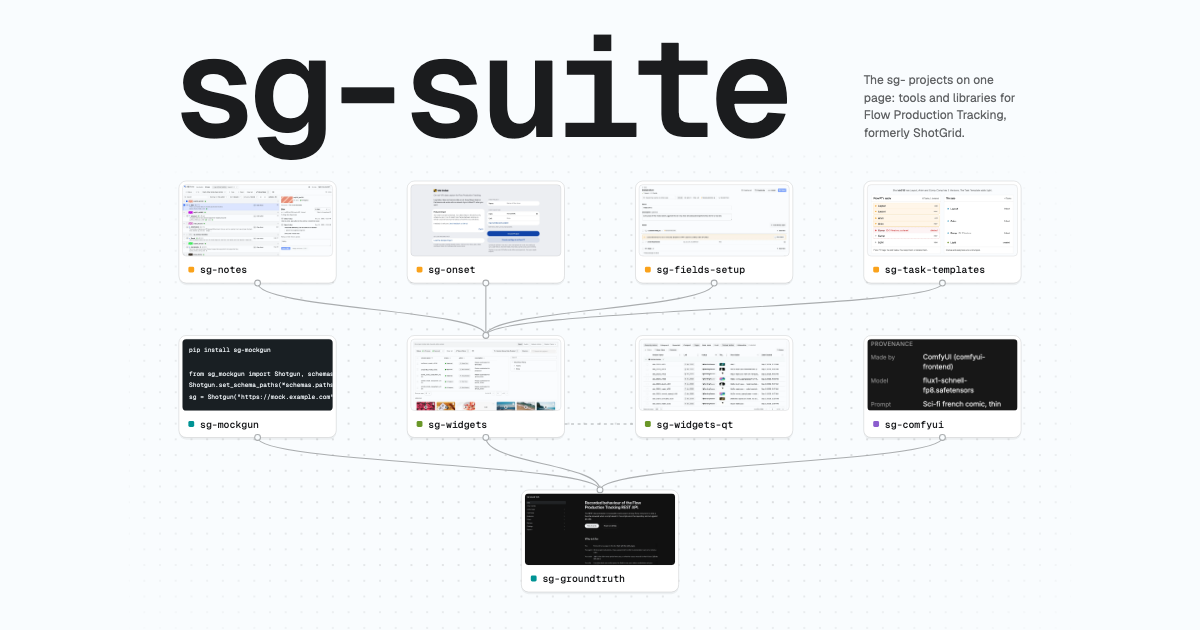
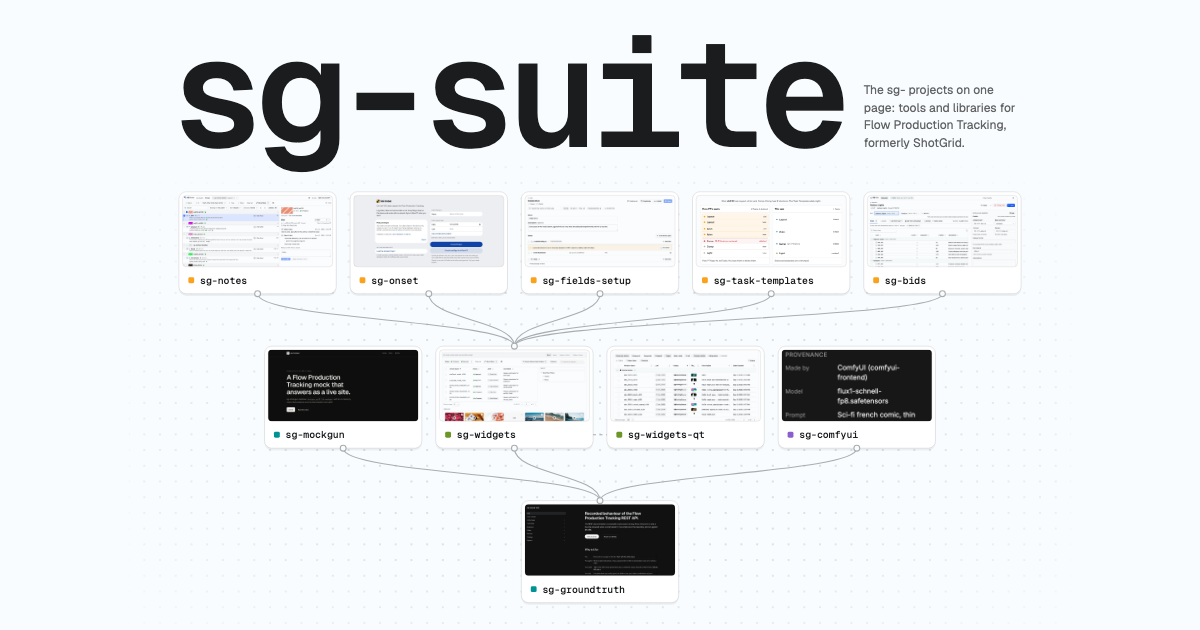
List sg-bids (#18)
Its entry, its relation to sg-widgets, its README row and its picture. The hero's top
layer holds five apps. The share image and the counts in the SEO copy follow.

diff --git a/src/lib/pure/projects.ts b/src/lib/pure/projects.ts
@@ -227,6 +227,23 @@ export const projects: Project[] = [
 		}
 	},
 	{
+		name: 'sg-bids',
+		line: 'VFX bid rounds: a request built from Shots and Assets, vendors answer through a link, the award is written to Flow PT.',
+		problem: 'Bid rounds run on spreadsheets and email. Vendors have no Flow PT account, their numbers are compared by hand, and the award is typed back in.',
+		fix: 'Build the request from Shots and Assets or a breakdown. Vendors answer through a link. Compare in one currency, award, and Flow PT is updated.',
+		repo: gh('sg-bids'),
+		site: 'https://sg-bids.vercel.app',
+		group: 'apps',
+		license: 'MIT',
+		image: {
+			src: '/screens/sg-bids.webp',
+			alt: 'A draft request: two bids of shots in one table, with its details and vendors beside it',
+			width: 1440,
+			height: 900,
+			from: 'site'
+		}
+	},
+	{
 		name: 'sg-comfyui',
 		line: 'ComfyUI nodes and a sidebar tab that publish a generation as a Version, find Versions and load them back.',
 		problem: 'On a big project, the right Version is hard to find from ComfyUI. What it makes leaves with no record of model, prompt or seed.',
@@ -266,7 +283,8 @@ export const relations: Relation[] = [
 	{ from: 'sg-notes', to: 'sg-widgets', kind: 'on' },
 	{ from: 'sg-onset', to: 'sg-widgets', kind: 'on' },
 	{ from: 'sg-fields-setup', to: 'sg-widgets', kind: 'on' },
-	{ from: 'sg-task-templates', to: 'sg-widgets', kind: 'on' }
+	{ from: 'sg-task-templates', to: 'sg-widgets', kind: 'on' },
+	{ from: 'sg-bids', to: 'sg-widgets', kind: 'on' }
 ];
 
 /** The groups in order, each with its projects in list order. */

diff --git a/src/lib/pure/seo.ts b/src/lib/pure/seo.ts
@@ -10,8 +10,8 @@ export const SITE = 'https://sg-suite.vercel.app';
 export const REPO = 'https://github.com/ksallee/sg-suite';
 const NAME = 'sg-suite';
 export const LINE = 'The sg- projects on one page: tools and libraries for Flow Production Tracking, formerly ShotGrid.';
-export const DESCRIPTION = `${LINE} The recorded REST API, a standalone mockgun, React, Svelte and Qt widgets, four web apps and ComfyUI nodes.`;
-const IMAGE_ALT = 'sg-suite: a node graph of the nine sg- projects, sg-groundtruth at the base.';
+export const DESCRIPTION = `${LINE} The recorded REST API, a standalone mockgun, React, Svelte and Qt widgets, five web apps and ComfyUI nodes.`;
+const IMAGE_ALT = 'sg-suite: a node graph of the ten sg- projects, sg-groundtruth at the base.';
 
 const esc = (s: string): string => s.replace(/&/g, '&amp;').replace(/"/g, '&quot;').replace(/</g, '&lt;').replace(/>/g, '&gt;');
 
@@ -87,7 +87,7 @@ export function llmsTxt(): string {
 		'',
 		`> ${LINE}`,
 		'',
-		'Nine open source projects. sg-groundtruth is the base: it records how the Flow Production Tracking REST API answers. sg-mockgun, sg-widgets and sg-comfyui build on it; sg-widgets-qt ports sg-widgets to Qt; the four apps build on sg-widgets.',
+		'Ten open source projects. sg-groundtruth is the base: it records how the Flow Production Tracking REST API answers. sg-mockgun, sg-widgets and sg-comfyui build on it; sg-widgets-qt ports sg-widgets to Qt; the five apps build on sg-widgets.',
 		''
 	];
 	for (const { group, projects: list } of grouped()) {

diff --git a/src/lib/pure/hero.test.ts b/src/lib/pure/hero.test.ts
@@ -8,7 +8,7 @@ const top = layout.nodes.filter((n) => n.layer === layout.layers - 1).sort((a, b
 describe('heroLayout', () => {
 	it('lays the hero out in its own box: three layers, the apps on top', () => {
 		expect(layout.layers).toBe(3);
-		expect(top.map((n) => n.name)).toEqual(['sg-notes', 'sg-onset', 'sg-fields-setup', 'sg-task-templates']);
+		expect(top.map((n) => n.name)).toEqual(['sg-notes', 'sg-onset', 'sg-fields-setup', 'sg-task-templates', 'sg-bids']);
 		for (const n of layout.nodes) {
 			expect(n.x - HERO.nodeW / 2).toBeGreaterThanOrEqual(0);
 			expect(n.x + HERO.nodeW / 2).toBeLessThanOrEqual(HERO.width);
@@ -19,14 +19,14 @@ describe('heroLayout', () => {
 describe('titleGrid', () => {
 	const g = titleGrid(layout);
 
-	it('spans the title from the first top node’s left edge to the third one’s right edge', () => {
+	it('spans the title from the first top node’s left edge to the right edge of the one before last', () => {
 		expect(g.left).toBeCloseTo(top[0].x - HERO.nodeW / 2);
-		expect(g.titleW).toBeCloseTo(top[2].x + HERO.nodeW / 2 - g.left);
+		expect(g.titleW).toBeCloseTo(top[top.length - 2].x + HERO.nodeW / 2 - g.left);
 	});
 
 	it('gives the line the last column, and keeps the grid symmetric', () => {
 		expect(g.lineW).toBe(HERO.nodeW);
-		expect(top[3].x + HERO.nodeW / 2 + g.left).toBeCloseTo(HERO.width);
+		expect(top[top.length - 1].x + HERO.nodeW / 2 + g.left).toBeCloseTo(HERO.width);
 	});
 });
 

diff --git a/src/lib/components/Hero.svelte b/src/lib/components/Hero.svelte
@@ -1,6 +1,6 @@
 <script lang="ts">
 	// The top of the page. `sg-suite` in Geist Mono, set on the graph's grid: it spans the top
-	// layer's first three columns, and the line sits in the fourth, on its baseline. Then the
+	// layer's first columns, and the line sits in the last, on its baseline. Then the
 	// graph (a tree on a phone) and the legend.
 	import type { Project } from '$lib/pure/projects';
 	import { grouped } from '$lib/pure/projects';

diff --git a/src/lib/pure/timing.test.ts b/src/lib/pure/timing.test.ts
@@ -104,7 +104,7 @@ describe('nodeDelays', () => {
 		const top = nodes.filter((n) => n.layer === 2).sort((a, b) => a.slot - b.slot);
 		const [end, mid] = [d.get(top[0].name)!, d.get(top[1].name)!];
 		expect(mid).toBeLessThan(end);
-		expect(d.get(top[0].name)).toBe(d.get(top[3].name));
+		expect(d.get(top[0].name)).toBe(d.get(top[top.length - 1].name));
 	});
 });
 

diff --git a/src/lib/pure/cards.test.ts b/src/lib/pure/cards.test.ts
@@ -19,7 +19,8 @@ describe('downstream', () => {
 			'sg-notes',
 			'sg-onset',
 			'sg-fields-setup',
-			'sg-task-templates'
+			'sg-task-templates',
+			'sg-bids'
 		]);
 		expect(downstream('sg-groundtruth', relations)).toEqual(['sg-mockgun', 'sg-widgets', 'sg-comfyui']);
 	});

diff --git a/README.md b/README.md
@@ -15,6 +15,7 @@ Live at [sg-suite.vercel.app](https://sg-suite.vercel.app).
 | [sg-onset](https://github.com/ksallee/sg-onset) | On-set VFX data capture: slates, takes, setups, lenses. Offline-first PWA, iPad first. | [sg-onset.vercel.app](https://sg-onset.vercel.app) |
 | [sg-fields-setup](https://github.com/ksallee/sg-fields-setup) | Named sets of field definitions: import from spreadsheets, compare with a live site, install. | [sg-fields-setup.vercel.app](https://sg-fields-setup.vercel.app) |
 | [sg-task-templates](https://github.com/ksallee/sg-task-templates) | Apply a Task Template to entities that already have Tasks. Only the missing Tasks are created. | [sg-task-templates.vercel.app](https://sg-task-templates.vercel.app) |
+| [sg-bids](https://github.com/ksallee/sg-bids) | VFX bid rounds: a request built from Shots and Assets, vendors answer through a link, the award is written to Flow PT. | [sg-bids.vercel.app](https://sg-bids.vercel.app) |
 | [sg-comfyui](https://github.com/ksallee/sg-comfyui) | ComfyUI nodes and a sidebar tab that publish a generation as a Version, find Versions and load them back. | [sg-comfyui.vercel.app](https://sg-comfyui.vercel.app) |
 
 ## Adding a project
